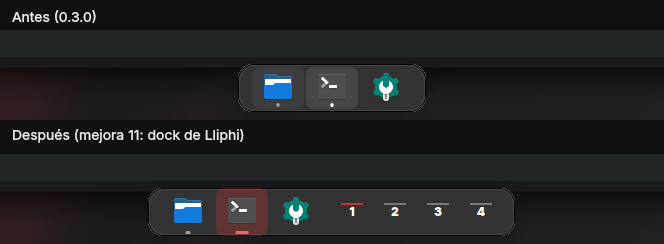
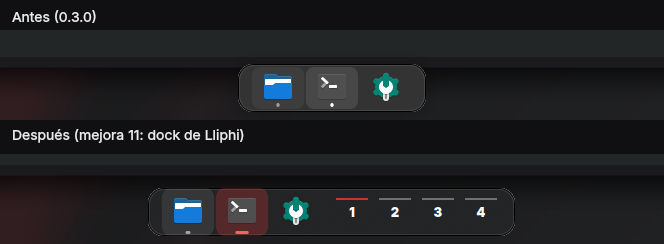
chore: regenera el sitio con el dock corregido

Changed region(s): [[0.0, 0.7172, 1.0, 0.7459], [0.512, 0.8033, 0.753, 0.8893]]

diff --git a/sitio/_site/cambios.html b/sitio/_site/cambios.html
@@ -388,7 +388,7 @@ ul.task-list li input[type="checkbox"] {
 <section id="changed-1" class="level3">
 <h3 class="anchored" data-anchor-id="changed-1">Changed</h3>
 <ul>
-<li><strong>Dock de Lliphi</strong> (mejora 11, decisiones 4.17): fondo de paneles del oscuro más opaco (88 %, gris de la ventana); mosaicos de tareas propios (sin recuadro en reposo, la activa teñida del acento con su barra) y paginador de números con un trazo encima (acento en el activo), desde <code>modulos/estilo/ajustes.json</code>; el dock suma el paginador. <code>sesion.py arrancar --escritorios N</code> y un reintento si el shell recién arrancado aún escribía su configuración.</li>
+<li><strong>Dock de Lliphi</strong> (mejora 11, decisiones 4.17): fondo de paneles del oscuro más opaco (88 %, gris de la ventana) y sin la sombra que manchaba las puntas; mosaicos de tareas propios (fondito claro tras cada aplicación, la activa teñida del acento con su barra) y paginador de números con un trazo encima (acento en el activo), desde <code>modulos/estilo/ajustes.json</code>; el dock suma el paginador. <code>sesion.py arrancar --escritorios N</code> y un reintento si el shell recién arrancado aún escribía su configuración.</li>
 </ul>
 </section>
 <section id="added" class="level3">
